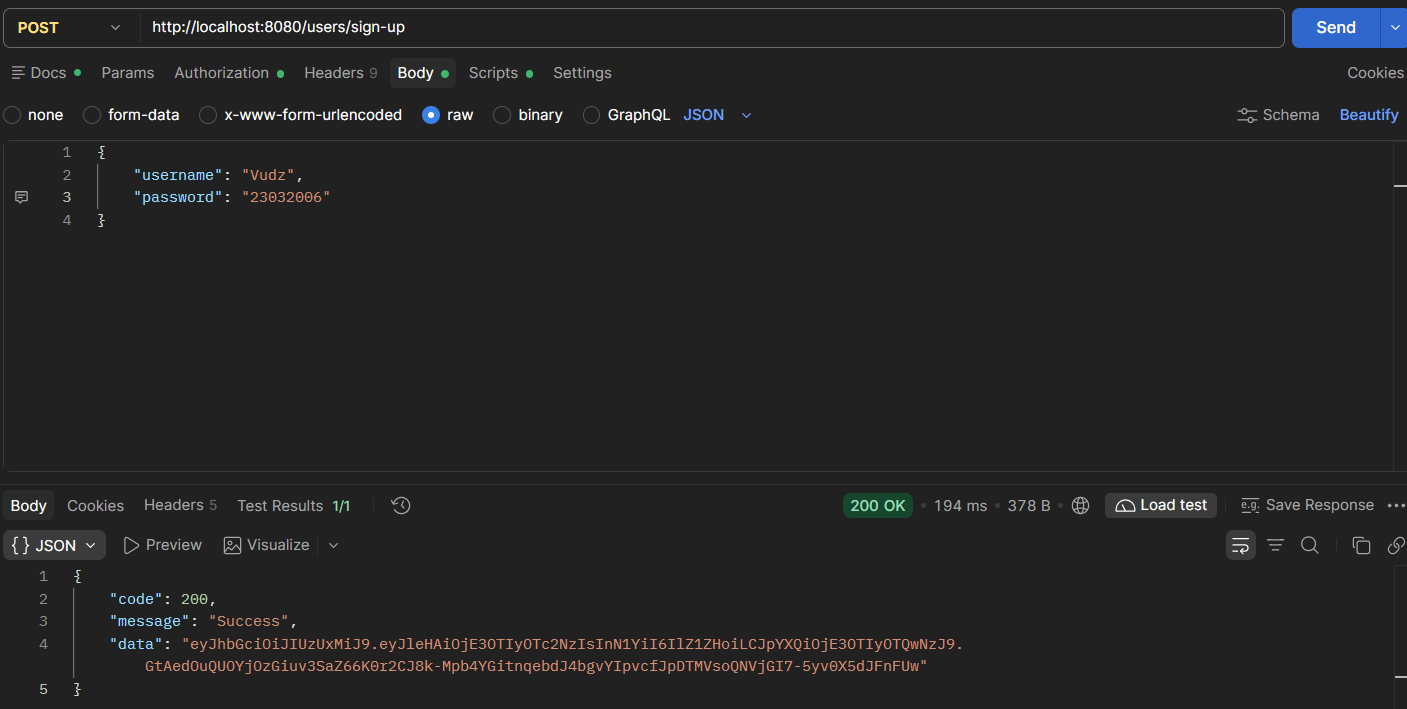
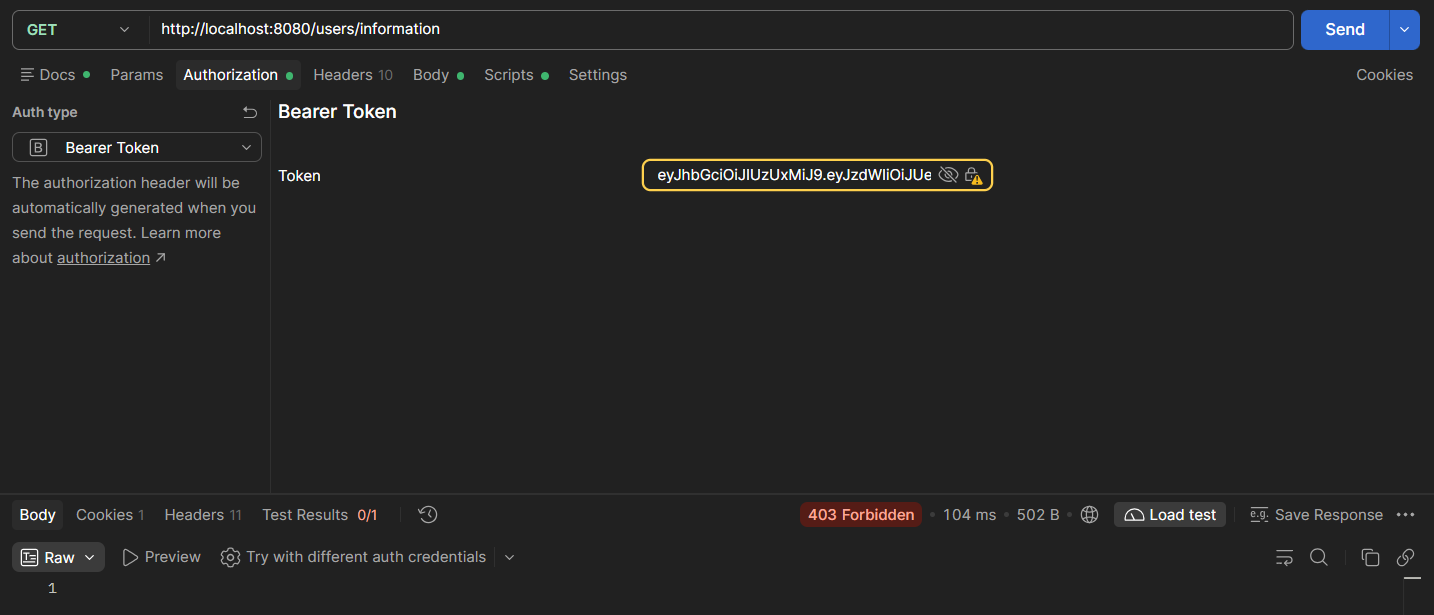
Add files via upload

diff --git a/week-3/ly-thuyet.md b/week-3/ly-thuyet.md
@@ -213,7 +213,6 @@ Controller
     }
 ```
 Demo
-![alt text](screenshots/image.png)
 ![alt text](screenshots/image-1.png)
 
 Service đăng nhập
@@ -290,3 +289,84 @@ Controller
 Nếu dùng token không hợp lệ
 
 ![alt text](screenshots/image-6.png)
+
+### Demo phân quyền
+
+Phân quyền chỉ có admin mới có thể xem được danh sách tài khoản.
+```java
+public class SecurityConfig {
+    private final String[] PUBLIC_ENDPOINTS = {
+            "/users/sign-up", "/users/information", "/users/login"
+    };
+    @Bean
+    public SecurityFilterChain filterChain(HttpSecurity httpSecurity) throws Exception {
+        httpSecurity.authorizeHttpRequests(request ->
+                request.requestMatchers(HttpMethod.POST, PUBLIC_ENDPOINTS).permitAll()
+                        .requestMatchers(HttpMethod.GET, PUBLIC_ENDPOINTS).hasAuthority("SCOPE_ADMIN")
+                        .anyRequest().authenticated()
+        );
+        httpSecurity.oauth2ResourceServer(oauth2 -> oauth2.jwt(jwt -> jwt.decoder(jwtDecoder())));
+        httpSecurity.csrf(AbstractHttpConfigurer::disable);
+        return httpSecurity.build();
+    }
+```
+Nếu dùng Token của user có role là USER
+
+![alt text](/screenshots/image7.png)
+
+HTTP Status code 403 Forbidden
+
+![alt text](/screenshots/image.png)
+
+Nếu dùng Token của user có role là Admin
+
+![alt text](/screenshots/image8.png)
+
+![alt text](/screenshots/image9.png)
+
+### Refresh Token
+
+Refresh Token là một chuỗi token khác, được tạo ra cùng lúc với Access Token. Refresh Token có thời gian hiệu lực lâu hơn Access Token, ví dụ như 1 tuần, 1 tháng, 1 năm...
+
+### Flow xác thực với access token và refresh token sẽ được cập nhật như sau:
+
+1. Client gửi request vào tài nguyên được bảo vệ trên server. Nếu client chưa được xác thực, server trả về lỗi 401 Authorization. Client gửi username và password của họ cho server.
+
+2. Server xác minh thông tin xác thực được cung cấp so với cơ sở dữ liệu user. Nếu thông tin xác thực khớp, server tạo ra 2 JWT khác nhau là Access Token và Refresh Token chứa payload là user_id (hoặc trường nào đó định danh người dùng). Access Token có thời gian ngắn (cỡ 5 phút). Refresh Token có thời gian dài hơn (cỡ 1 năm). Refresh Token sẽ được lưu vào cơ sở dữ liệu, còn Access Token thì không.
+
+3. Server trả về access token và refresh token cho client.
+
+4. Client lưu trữ access token và refresh token ở bộ nhớ thiết bị (cookie, local storage,...).
+
+5. Đối với các yêu cầu tiếp theo, client gửi kèm access token trong header của request.
+
+6. Server verify access token bằng secret key để kiểm tra access token có hợp lệ không.
+
+7. Nếu hợp lệ, server cấp quyền truy cập vào tài nguyên được yêu cầu.
+
+8. Khi access token hết hạn, client gửi refresh token lên server để lấy access token mới.
+
+9. server kiểm tra refresh token có hợp lệ không, có tồn tại trong cơ sở dữ liệu hay không. Nếu ok, server sẽ xóa refresh token cũ và tạo ra refresh token mới với expire date như cũ (ví dụ cái cũ hết hạn vào 5/10/2023 thì cái mới cũng hết hạn vào 5/10/2023) lưu vào cơ sở dữ liệu, tạo thêm access token mới.
+
+10. Server trả về access token mới và refresh token mới cho client.
+
+11. Client lưu trữ access token và refresh token mới ở bộ nhớ thiết bị (cookie, local storage,...).
+
+12. Client có thể thực hiện các yêu cầu tiếp theo với access token mới (quá trình refresh token diễn ra ngầm nên client sẽ không bị logout).
+
+13. Khi người dùng muốn đăng xuất thì gọi API logout, server sẽ xóa refresh token trong cơ sở dữ liệu, đồng thời client phải thực hiện xóa access token và refresh token ở bộ nhớ thiết bị.
+
+14. Khi refresh token hết hạn (hoặc không hợp lệ) thì server sẽ từ chối yêu cầu của client, client lúc này sẽ xóa access token và refresh token ở bộ nhớ thiết bị và chuyển sang trạng thái bị logout
+
+
+### Token Revocation
+
+Redis Blacklist & JTI:
+
+- JTI: Mỗi token phải mang một định danh duy nhất.
+- Revocation List: Khi Logout, chúng ta không xóa token (vì không xóa được), mà chúng ta đưa JTI của nó vào một "danh sách đen" trên Redis.
+- Tối ưu TTL: Bí kíp ở đây là tính toán TTL (Time-To-Live) cho key trên Redis khớp chính xác với thời gian hết hạn còn lại của token. Điều này đảm bảo Redis không bao giờ bị phình to vô tội vạ. Đây là cách Big Tech cân bằng giữa Security và Infrastructure Cost.
+
+Refresh Token Rotation:
+
+- Lưu Refresh token vào database, khi access token kết hiệu lực thì người dùng gửi kèm request với Refresh token nếu có trong database thì tạo mới lại accesstoken và refresh token mới đồng thời xóa refresh token cũ khỏi database, khi đăng xuất thì refresh token cũng bị xóa khỏi database, nếu refresh token hết hạn thì sẽ phải login lại.
